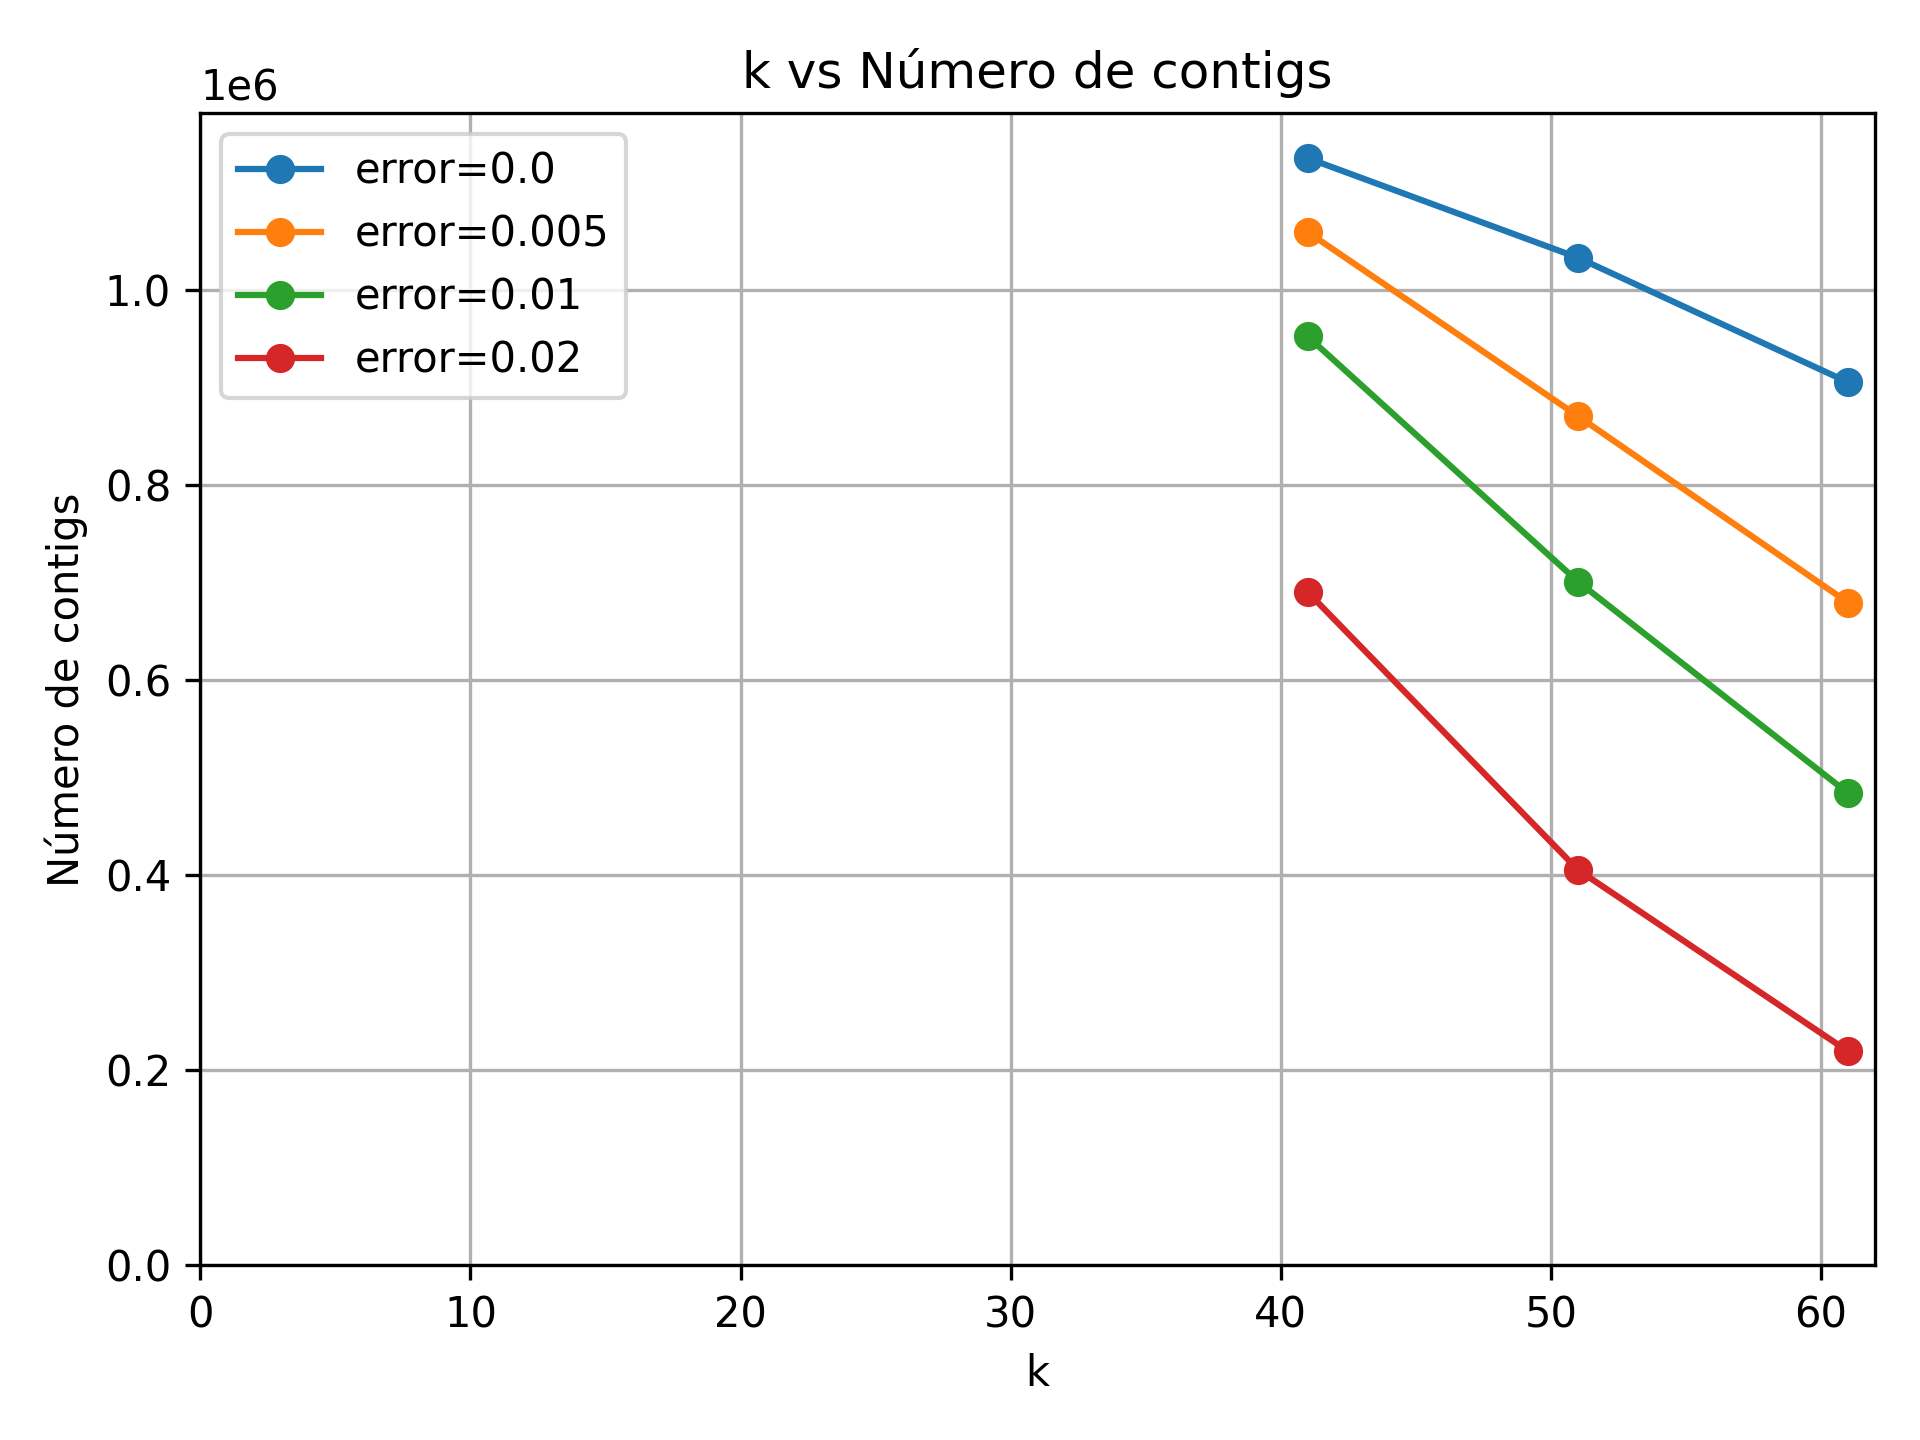
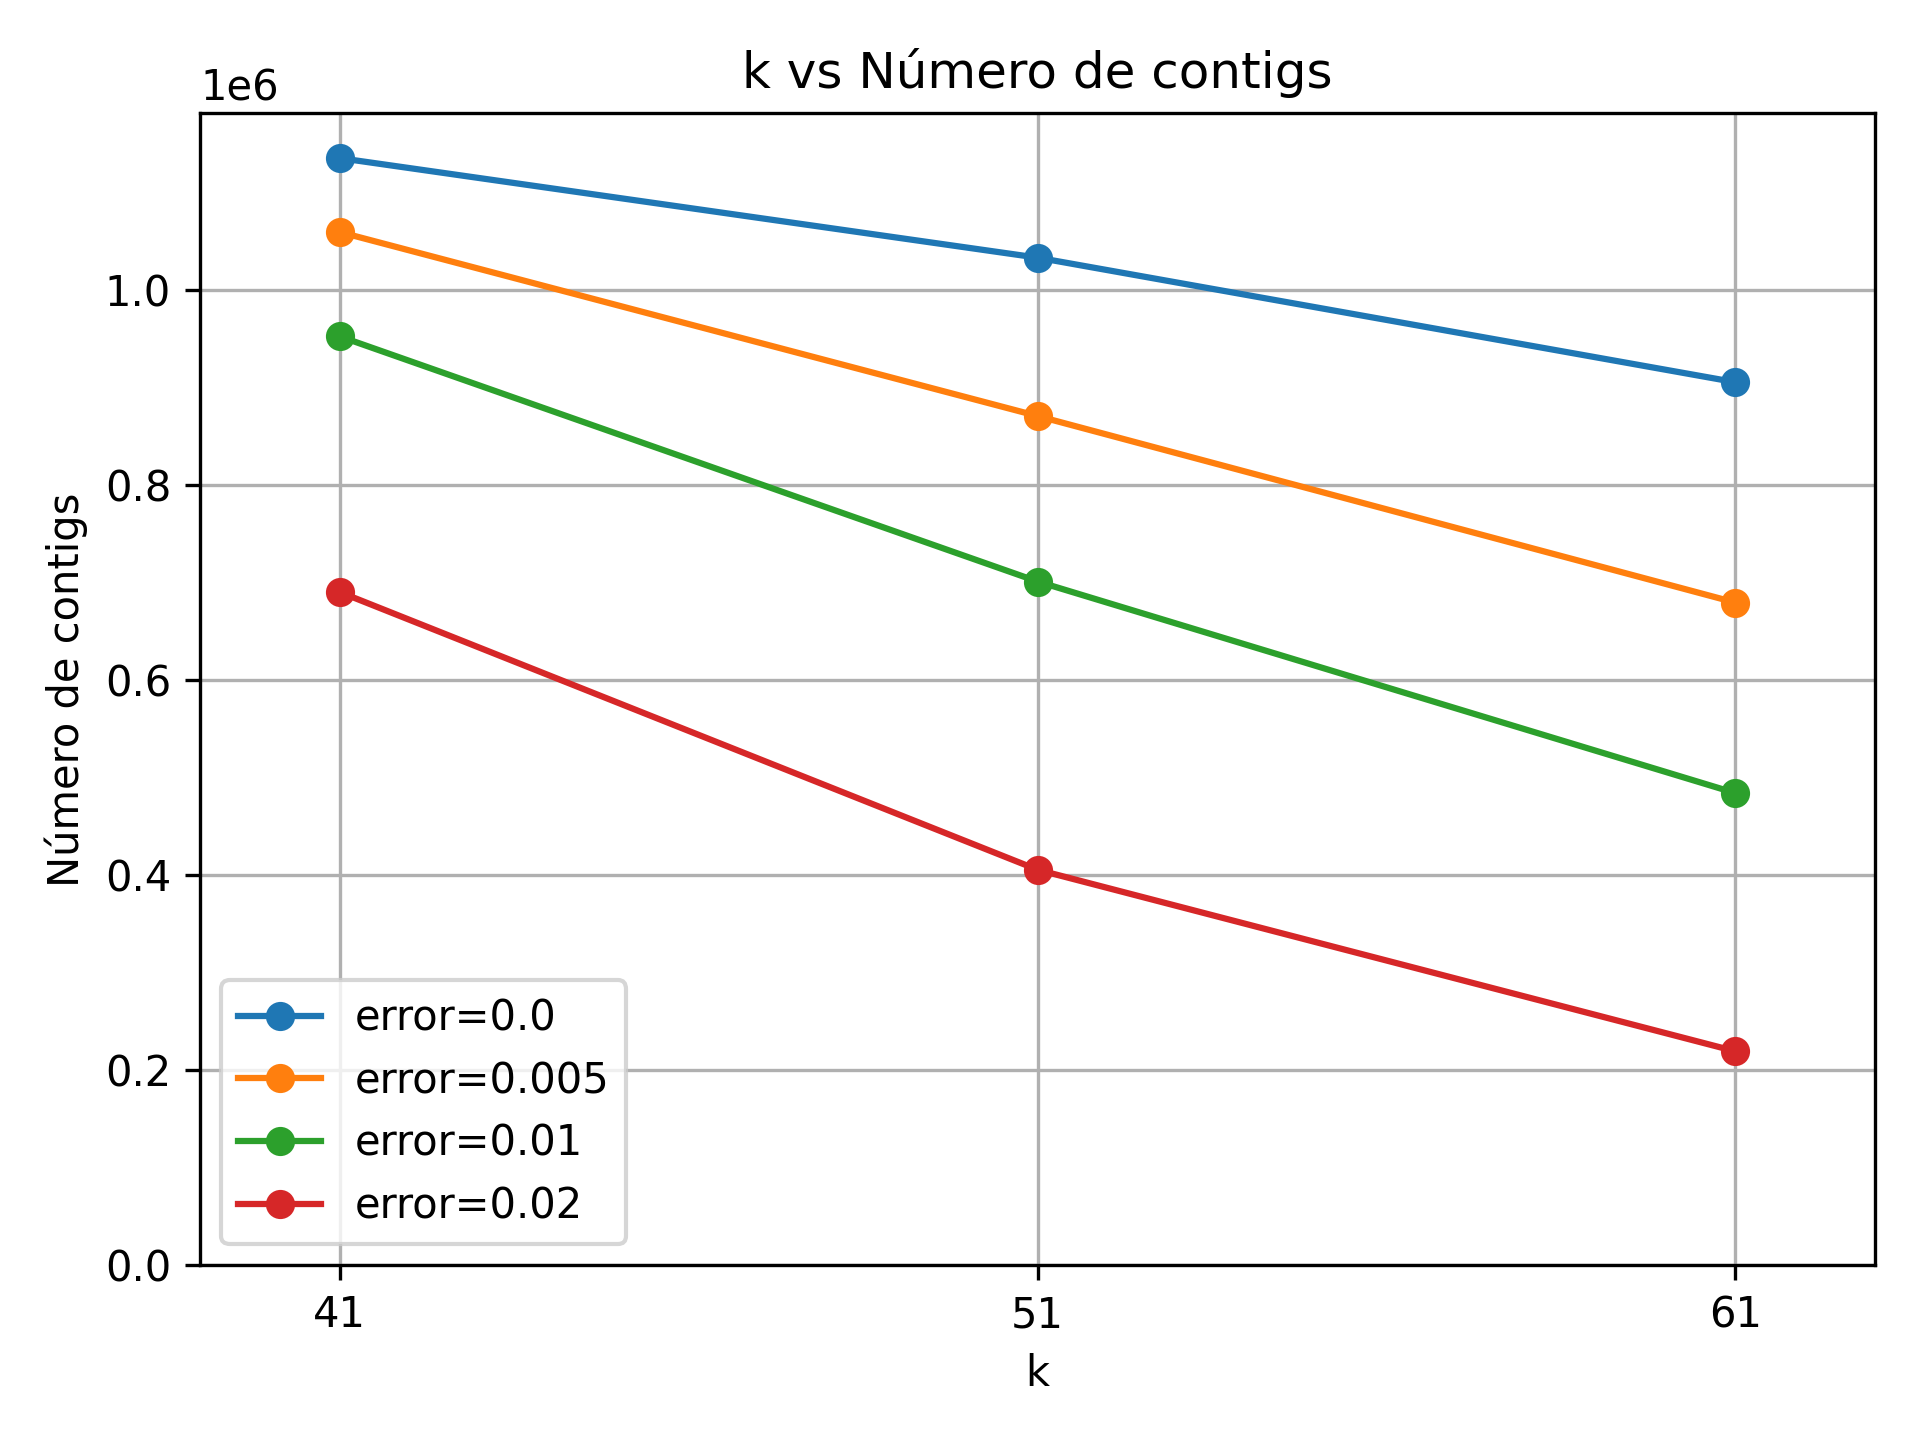
arreglo gráficas

diff --git a/python/visualizacion.py b/python/visualizacion.py
@@ -30,23 +30,36 @@ def leer_resultados(ruta):
 def graficar(datos):
     os.makedirs("resultados", exist_ok=True)
 
-    # Función auxiliar para sacar las gráficas
+    errores_ordenados = sorted(datos.keys())
+
+    # Función auxiliar para las gráficas
     def plot_metric(nombre, key, ylabel, filename):
         plt.figure()
 
-        for error, d in datos.items():
-            # ordenar por k
+        all_ks = set()
+
+        for error in errores_ordenados:
+            d = datos[error]
+
             ks = d["ks"]
             valores = d[key]
+
             ks, valores = zip(*sorted(zip(ks, valores)))
+            all_ks.update(ks)
 
             plt.plot(ks, valores, marker='o', label=f"error={error}")
+
+        ks_sorted = sorted(all_ks)
 
         plt.xlabel("k")
         plt.ylabel(ylabel)
         plt.title(nombre)
+
+        # eje X ajustado dinámicamente
+        plt.xlim(min(ks_sorted) - 2, max(ks_sorted) + 2)
+        plt.xticks(ks_sorted)
+
         plt.ylim(bottom=0)
-        plt.xlim(left=0)
         plt.grid(True)
         plt.legend()
         plt.tight_layout()
@@ -69,10 +82,18 @@ def graficar(datos):
         ("total", "Longitud total")
     ]
 
+    all_ks = set()
+    for error in errores_ordenados:
+        all_ks.update(datos[error]["ks"])
+    ks_sorted = sorted(all_ks)
+
     for i, (key, ylabel) in enumerate(metricas):
-        for error, d in datos.items():
+        for error in errores_ordenados:
+            d = datos[error]
+
             ks = d["ks"]
             valores = d[key]
+
             ks, valores = zip(*sorted(zip(ks, valores)))
 
             axs[i].plot(ks, valores, marker='o', label=f"e={error}")
@@ -80,8 +101,11 @@ def graficar(datos):
         axs[i].set_title(f"k vs {ylabel}")
         axs[i].set_xlabel("k")
         axs[i].set_ylabel(ylabel)
+
+        axs[i].set_xlim(min(ks_sorted) - 2, max(ks_sorted) + 2)
+        axs[i].set_xticks(ks_sorted)
+
         axs[i].set_ylim(bottom=0)
-        axs[i].set_xlim(left=0)
         axs[i].grid(True)
         axs[i].legend()
 
@@ -90,7 +114,6 @@ def graficar(datos):
     plt.close()
 
     print("Gráficas guardadas en carpeta de resultados.")
-
 
 def main():
     datos = leer_resultados(RUTA_CSV)
